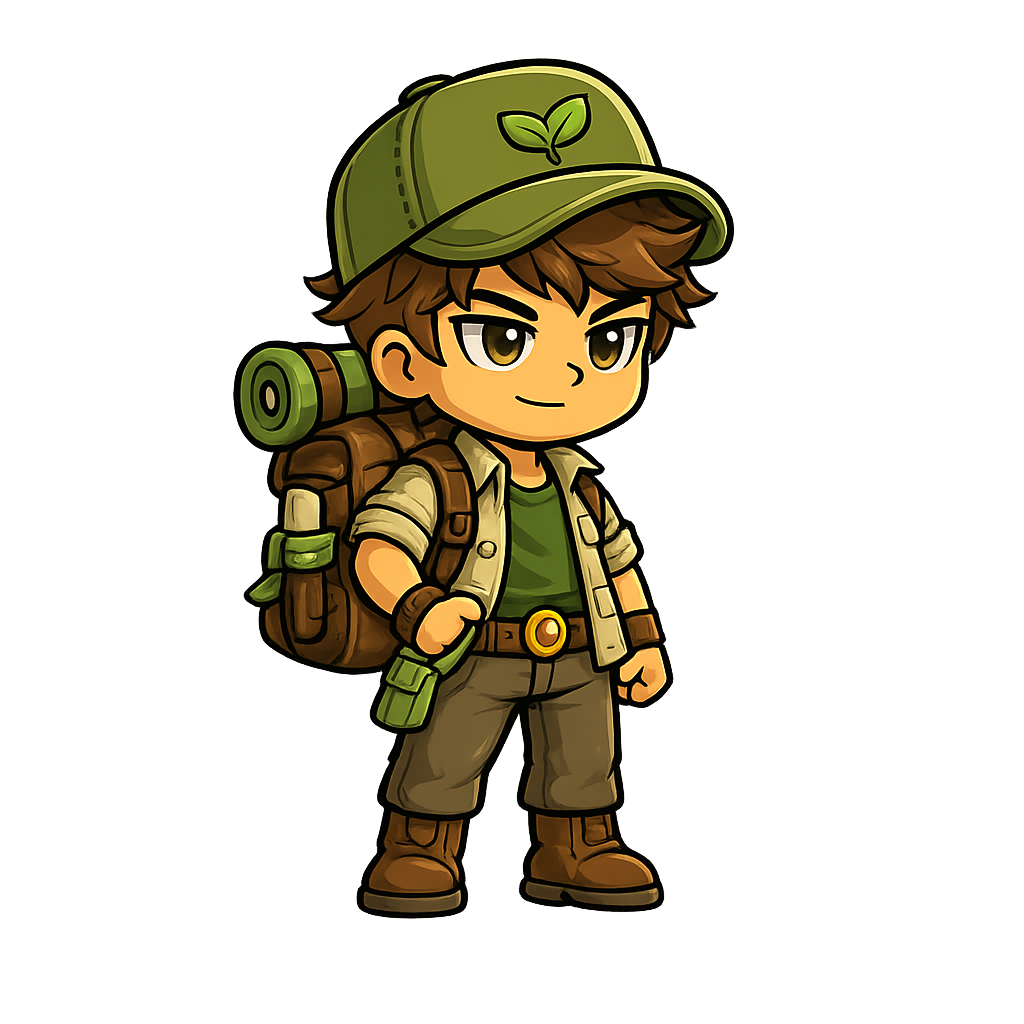
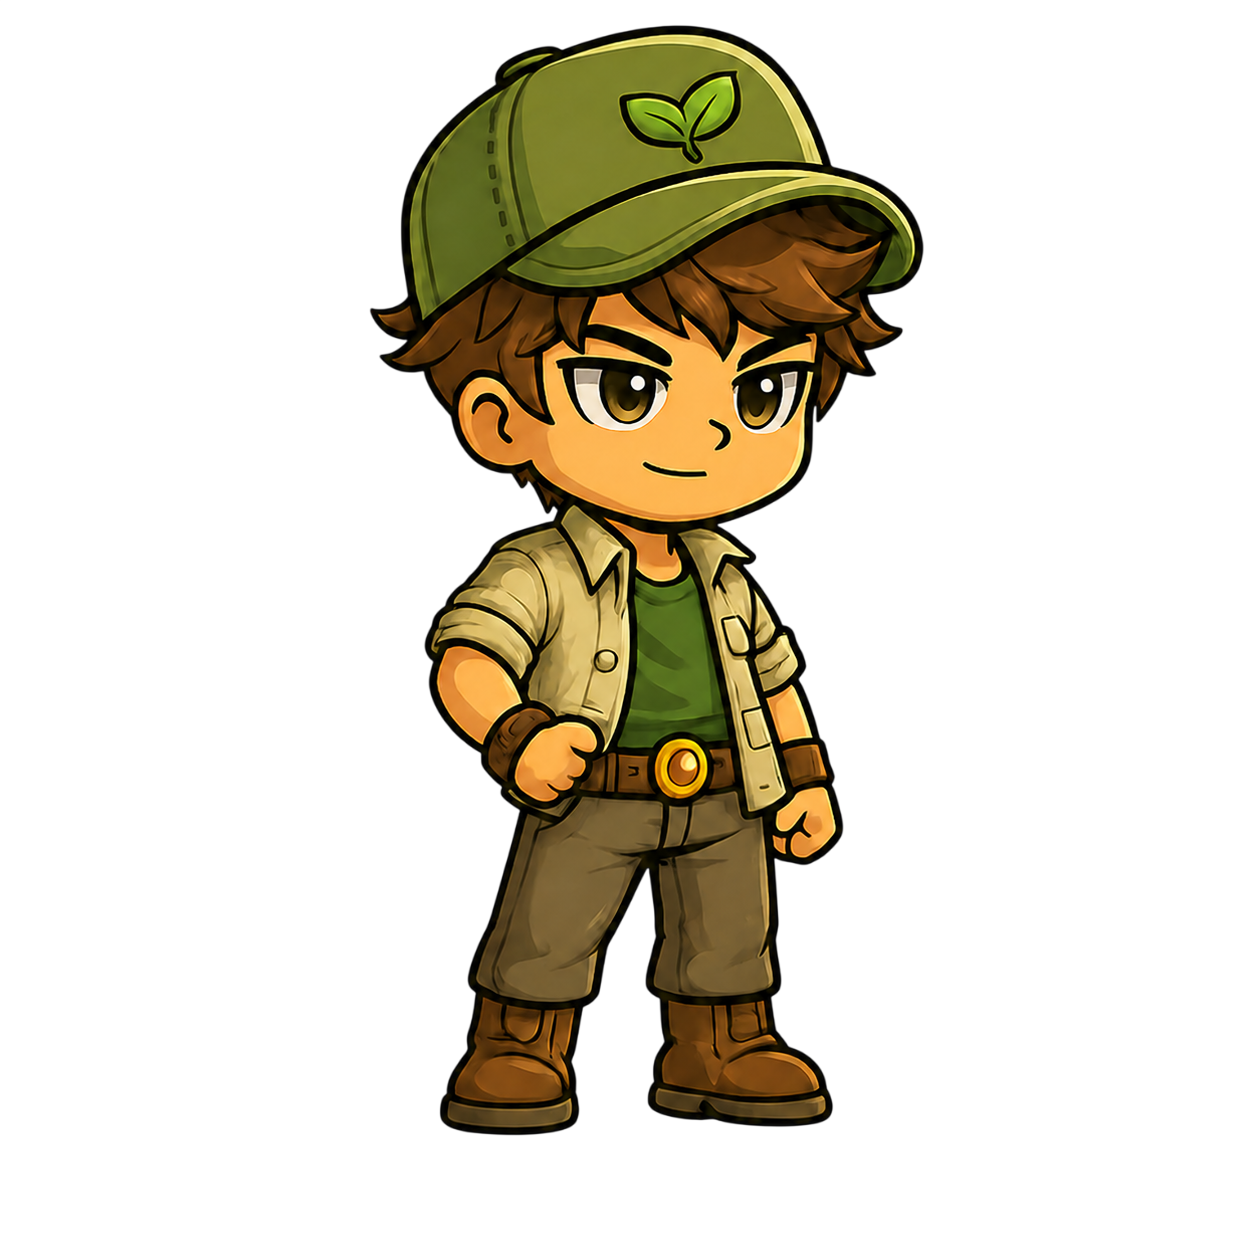
sprits listos

Changed region(s): [[0.2188, 0.0, 0.75, 0.9062]]

diff --git a/core/src/main/java/com/juego/progra/Personajes/Jugador.java b/core/src/main/java/com/juego/progra/Personajes/Jugador.java
@@ -2,31 +2,96 @@ package com.juego.progra.Personajes;
 
 import com.badlogic.gdx.Gdx;
 import com.badlogic.gdx.Input;
+import com.badlogic.gdx.graphics.Texture;
 import com.juego.progra.Mapas.MapasNiveles;
 
-
-public class Jugador extends Personaje{
+public class Jugador extends Personaje {
     private int vidas=5;
     private float tiempoSinPerderVidas = 0;
+
+    private Texture abajoQuieto, abajoPie1, abajoPie2;
+    private Texture arribaQuieto, arribaPie1, arribaPie2;
+    private Texture derechaQuieto, derechaPie1, derechaPie2;
+    private Texture izquierdaQuieto, izquierdaPie1, izquierdaPie2;
+
+    private Texture direccionQuieta, direccionPie1, direccionPie2;
+    private float tiempoAnimacion = 0;
+
     public Jugador(float x, float y) {
-        super(x, y, "jugador1.png");
+        super(x, y, "jugador1DOWN.png");
+        abajoQuieto = imagen;
+        abajoPie1 = new Texture("jugador1_abajoca.png");
+        abajoPie2 = new Texture("jugador1_abajocad.png");
+
+        arribaQuieto = new Texture("jugador1UP.png");
+        arribaPie1 = new Texture("jugador1_arriba_ca.png");
+        arribaPie2 = new Texture("jugador1_arribacad.png");
+
+        derechaQuieto = new Texture("jugador1.png");
+        derechaPie1 = new Texture("jugador1_derechaca.png");
+        derechaPie2 = new Texture("jugador1_derechacad.png");
+
+        izquierdaQuieto = new Texture("jugador1IZQ.png");
+        izquierdaPie1 = new Texture("jugador1_izqca.png");
+        izquierdaPie2 = new Texture("jugador1_izquierdacad.png");
+
+        direccionQuieta = abajoQuieto;
+        direccionPie1 = abajoPie1;
+        direccionPie2 = abajoPie2;
     }
 
     @Override
     public void actualizar(MapasNiveles mapa, float delta) {
         if (tiempoSinPerderVidas > 0) tiempoSinPerderVidas -= delta;
 
+        boolean moviendo = false;
+        boolean esHorizontal = false;
+
         // MOVIMIENTO EN X
         float newX = x;
-        if (Gdx.input.isKeyPressed(Input.Keys.RIGHT)) newX += 200 * delta;
-        if (Gdx.input.isKeyPressed(Input.Keys.LEFT))  newX -= 200 * delta;
+        if (Gdx.input.isKeyPressed(Input.Keys.RIGHT)) {
+            newX += 155 * delta;
+            direccionQuieta = derechaQuieto; direccionPie1 = derechaPie1; direccionPie2 = derechaPie2;
+            moviendo = true; esHorizontal = true;
+        }
+        if (Gdx.input.isKeyPressed(Input.Keys.LEFT)) {
+            newX -= 155 * delta;
+            direccionQuieta = izquierdaQuieto; direccionPie1 = izquierdaPie1; direccionPie2 = izquierdaPie2;
+            moviendo = true; esHorizontal = true;
+        }
         if (mapa.CaminarCelda(caja(newX, y))) x = newX;
 
         // MOVIMIENTO EN Y
         float newY = y;
-        if (Gdx.input.isKeyPressed(Input.Keys.UP))   newY += 200 * delta;
-        if (Gdx.input.isKeyPressed(Input.Keys.DOWN)) newY -= 200 * delta;
+        if (Gdx.input.isKeyPressed(Input.Keys.UP)) {
+            newY += 155 * delta;
+            direccionQuieta = arribaQuieto; direccionPie1 = arribaPie1; direccionPie2 = arribaPie2;
+            moviendo = true; esHorizontal = false;
+        }
+        if (Gdx.input.isKeyPressed(Input.Keys.DOWN)) {
+            newY -= 155 * delta;
+            direccionQuieta = abajoQuieto; direccionPie1 = abajoPie1; direccionPie2 = abajoPie2;
+            moviendo = true; esHorizontal = false;
+        }
         if (mapa.CaminarCelda(caja(x, newY))) y = newY;
+
+        if (moviendo) {
+            tiempoAnimacion += delta;
+            if (esHorizontal) {
+                int frame = (int) ((tiempoAnimacion % 0.6f) / 0.15f); // pie1-quieto-pie2-quieto
+                switch (frame) {
+                    case 0: imagen = direccionPie1; break;
+                    case 2: imagen = direccionPie2; break;
+                    default: imagen = direccionQuieta; break;
+                }
+            } else {
+                int frame = (int) ((tiempoAnimacion % 0.4f) / 0.2f); // pie1-pie2 directo
+                imagen = (frame == 0) ? direccionPie1 : direccionPie2;
+            }
+        } else {
+            tiempoAnimacion = 0;
+            imagen = direccionQuieta;
+        }
 
         mapa.obtenerObjeto(caja(x, y));
     }
@@ -52,5 +117,13 @@ public class Jugador extends Personaje{
     }
     public boolean estaVivo(){
         return vidas > 0;
+    }
+
+    @Override
+    public void dispose() {
+        abajoQuieto.dispose(); abajoPie1.dispose(); abajoPie2.dispose();
+        arribaQuieto.dispose(); arribaPie1.dispose(); arribaPie2.dispose();
+        derechaQuieto.dispose(); derechaPie1.dispose(); derechaPie2.dispose();
+        izquierdaQuieto.dispose(); izquierdaPie1.dispose(); izquierdaPie2.dispose();
     }
 }

diff --git a/core/src/main/java/com/juego/progra/Personajes/Enemigo.java b/core/src/main/java/com/juego/progra/Personajes/Enemigo.java
@@ -1,4 +1,6 @@
 package com.juego.progra.Personajes;
+
+import com.badlogic.gdx.graphics.Texture;
 import com.badlogic.gdx.math.MathUtils;
 import com.juego.progra.Mapas.MapasNiveles;
 
@@ -8,14 +10,30 @@ public class Enemigo extends Personaje {
 
     private Tipo tipo;
     private float velocidad = 100;
-    private int direccionX = 1;   //1 ES DERECHA -1 IZQUIERDA(HORIZONTAL)
+    private int direccionX = 1;
     private float cambio = 0;
-    private int direccion = 0;    //  ( ALEATORIO)
+    private int direccion = 0;
+    private float tiempoAnimacion = 0;
+    private Texture[] derecha = new Texture[3];
+    private Texture[] izquierda = new Texture[3];
+    private Texture[] arriba = new Texture[3];
+    private Texture[] abajo = new Texture[3];
 
     public Enemigo(float x, float y, Tipo tipo) {
-        super(x, y, "personaje.png.png"); //POR AHORA USAMOS LA MISMA IMAGEN DEL JUGADOR
+        super(x, y, "villano_down1.png");
         this.tipo = tipo;
         this.cajaTamañito = 15;
+
+        abajo[0] = imagen;
+        for (int i = 1; i < 3; i++) {
+            abajo[i] = new Texture("villano_down" + (i + 1) + ".png");
+        }
+        for (int i = 0; i < 3; i++) {
+            derecha[i] = new Texture("villano_izq" + (i + 1) + ".png");
+            izquierda[i] = new Texture("villano_der" + (i + 1) + ".png");
+            arriba[i] = new Texture("villano_up" + (i + 1) + ".png");
+
+        }
     }
 
     @Override
@@ -24,6 +42,22 @@ public class Enemigo extends Personaje {
             actualizarHorizontal(mapa, delta);
         } else {
             actualizarAleatorio(mapa, delta);
+        }
+
+        tiempoAnimacion += delta;
+        int frame = (int) ((tiempoAnimacion % 0.6f) / 0.2f);
+        imagen = direccionActual()[frame];
+    }
+
+    private Texture[] direccionActual() {
+        if (tipo == Tipo.HORIZONTAL) {
+            return direccionX == 1 ? derecha : izquierda;
+        }
+        switch (direccion) {
+            case 0: return derecha;
+            case 1: return izquierda;
+            case 2: return arriba;
+            default: return abajo;
         }
     }
 
@@ -56,6 +90,16 @@ public class Enemigo extends Personaje {
             y = newY;
         } else {
             cambio = 2;
+        }
+    }
+
+    @Override
+    public void dispose() {
+        for (int i = 0; i < 3; i++) {
+            derecha[i].dispose();
+            izquierda[i].dispose();
+            arriba[i].dispose();
+            abajo[i].dispose();
         }
     }
 }

diff --git a/core/src/main/java/com/juego/progra/Mapas/MapasNiveles.java b/core/src/main/java/com/juego/progra/Mapas/MapasNiveles.java
@@ -23,7 +23,7 @@ public class MapasNiveles {
     private static final float LIMITE_IZQ = 125;
     private static final float LIMITE_DER = 1279;
     private static final float LIMITE_ABAJO = 140;
-    private static final float LIMITE_ARRIBA = 615;
+    private static final float LIMITE_ARRIBA = 590;
     //AL FINAL SI LE HICE RECTANGULO AL INVERNADERO PERO UNO DENTRO DE OTRO
     private static final Rectangle invernaderoCaja = new Rectangle(610, 320, 189, 177);
     private static final Rectangle invernaderoCajaTecho = new Rectangle(667, 477, 75, 40); // 40 = 517 - 477

diff --git a/core/src/main/java/com/juego/progra/Personajes/Personaje.java b/core/src/main/java/com/juego/progra/Personajes/Personaje.java
@@ -7,7 +7,7 @@ import com.badlogic.gdx.math.Rectangle;
 public abstract class Personaje {
     protected float x,y;
     protected Texture imagen;
-    protected float cajaTamañito = 15;
+    protected float cajaTamañito = 10;
 
     //Constructor
     public Personaje(float x, float y, String rutaImagen) {
